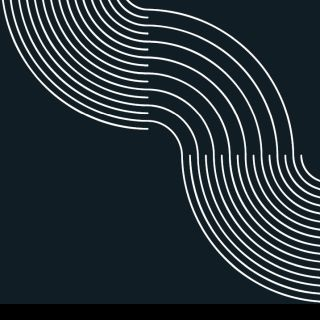
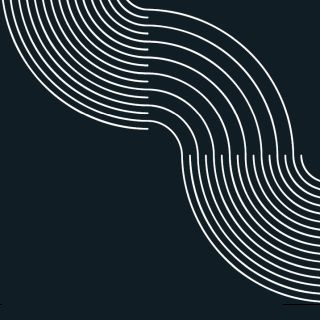
ajuste da cor de fundo da imagem canto superior direito

Changed region(s): [[0.0, 0.9375, 1.0, 1.0]]

diff --git a/src/components/charts_invictus/index.js b/src/components/charts_invictus/index.js
@@ -152,7 +152,7 @@ export function ChartsInvictus({
           left: "50%",
           transform: "translateX(-50%)",
           zIndex: 1000,
-          backgroundColor: "#000",
+          backgroundColor: "#111E25",
         }}
       >
         <Image
@@ -209,7 +209,7 @@ export function ChartsInvictus({
           top: -20,
           right: -20,
           zIndex: 9999,
-          backgroundColor: "#000",
+          backgroundColor: "#111E25",
         }}
       >
         <Image
@@ -226,7 +226,7 @@ export function ChartsInvictus({
           bottom: -20,
           left: -20,
           zIndex: 9999,
-          backgroundColor: "#000",
+          backgroundColor: "#111E25",
         }}
       >
         <Image
